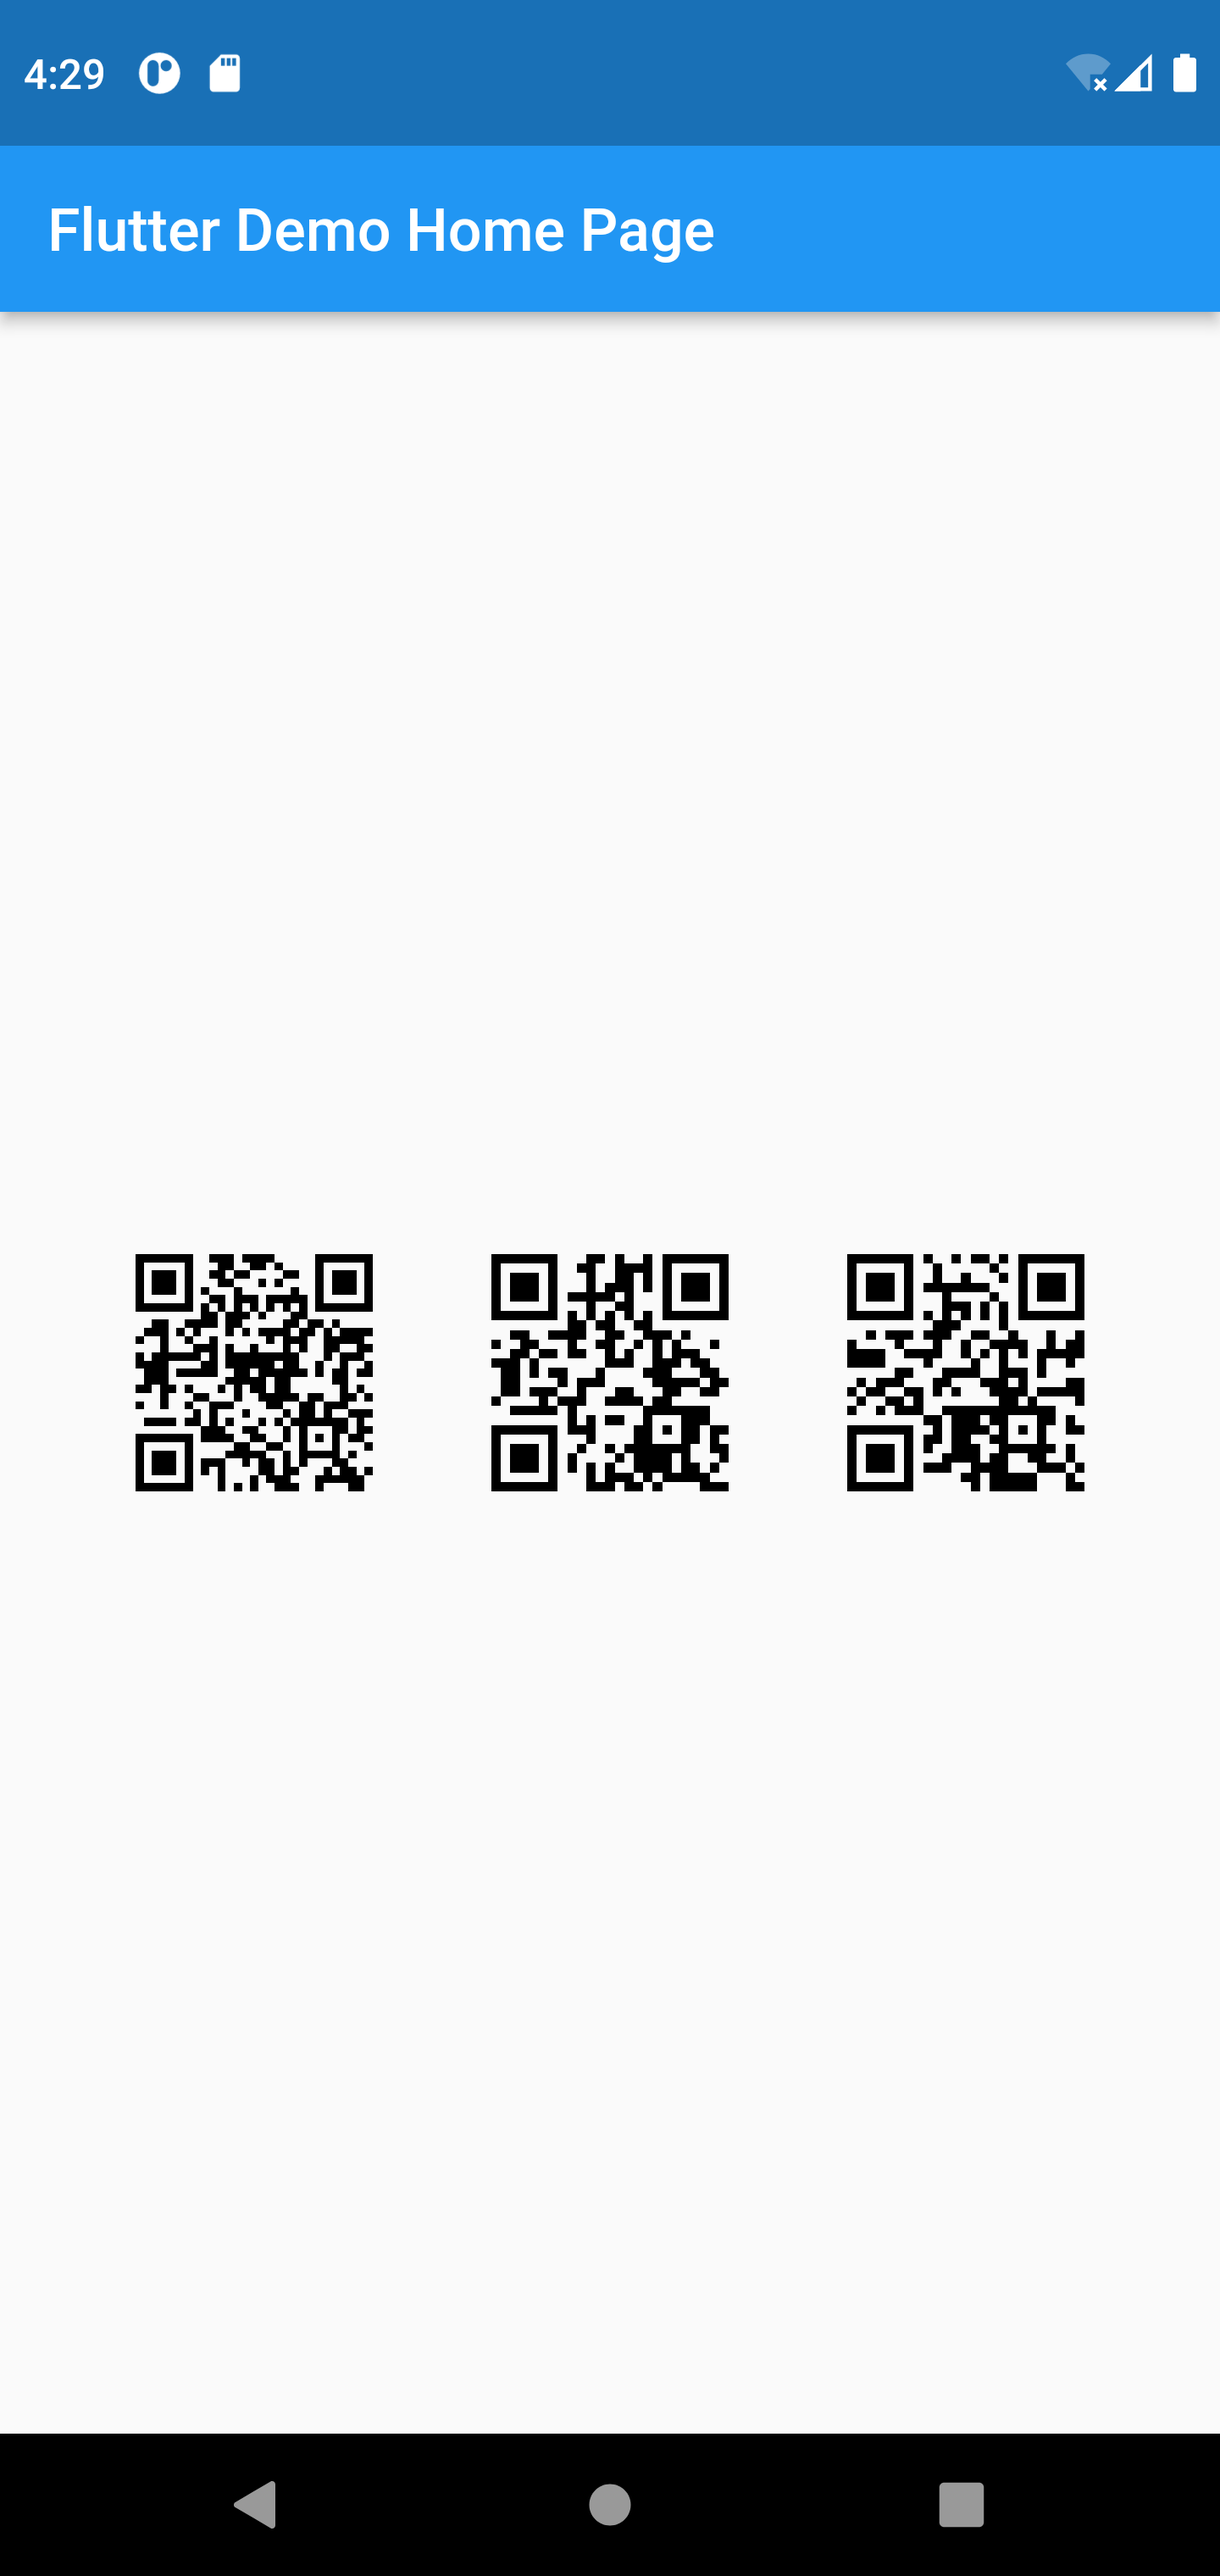
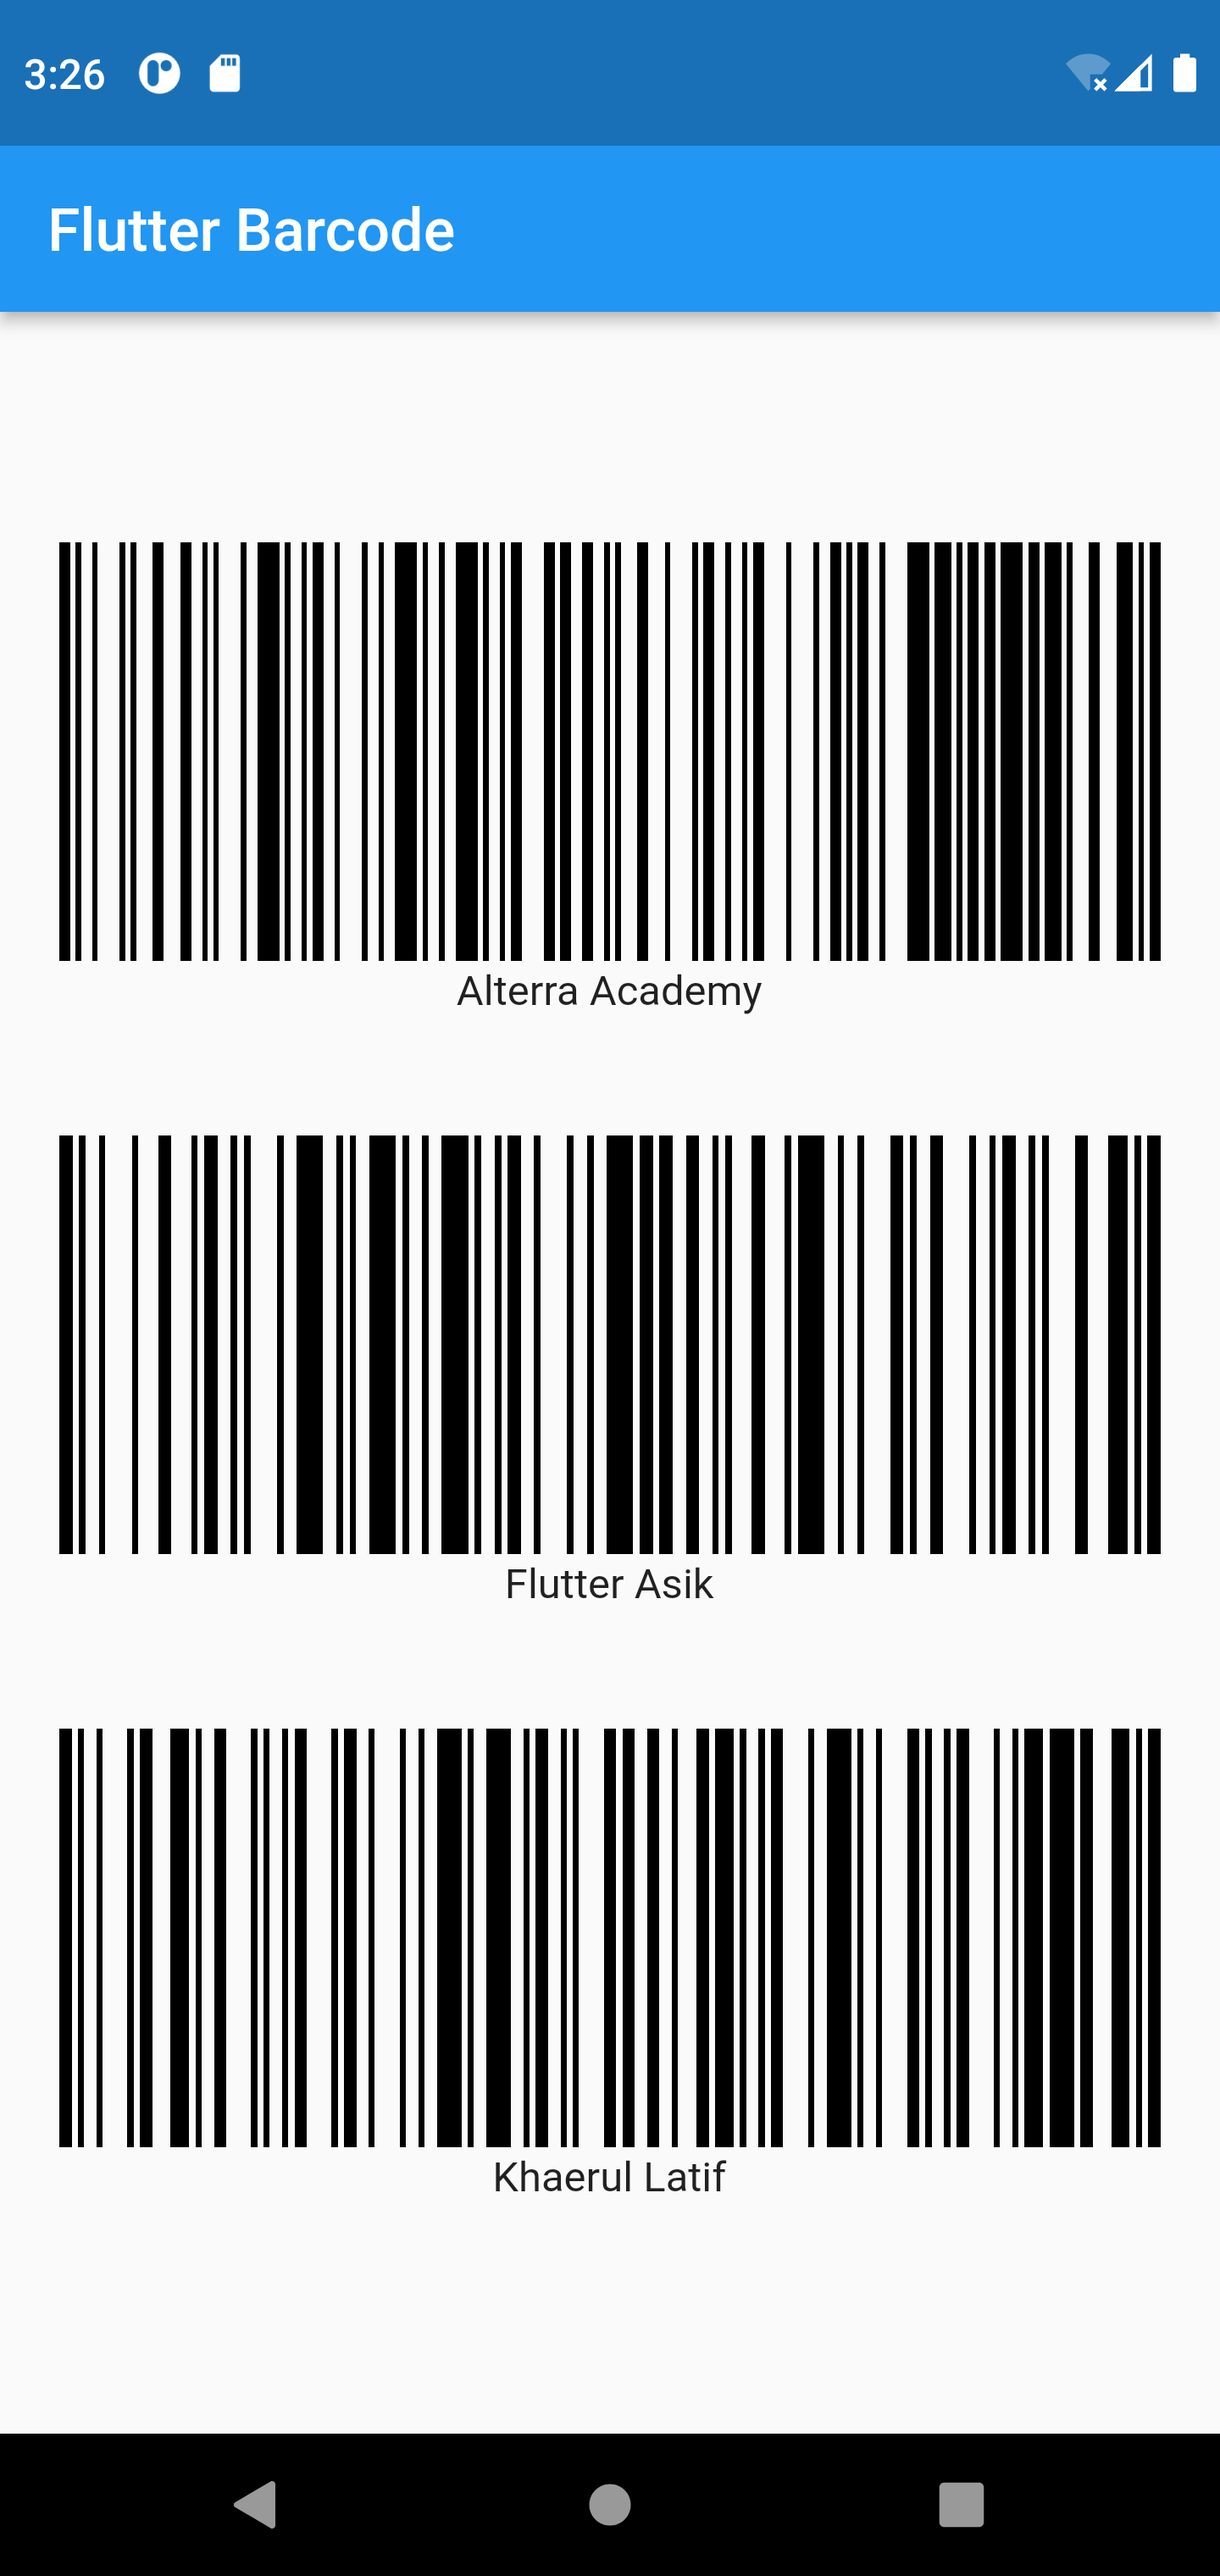
input assignment section 14

diff --git a/14_Flutter Command Line Interface (CLI) and Flutter package management/praktikum/tasks/flutter_cli_14/lib/mainno2.dart b/14_Flutter Command Line Interface (CLI) and Flutter package management/praktikum/tasks/flutter_cli_14/lib/mainno2.dart
@@ -15,7 +15,7 @@ class MyApp extends StatelessWidget {
       theme: ThemeData(
         primarySwatch: Colors.blue,
       ),
-      home: const MyHomePage(title: 'Flutter Demo Home Page'),
+      home: const MyHomePage(title: 'Flutter Barcode'),
     );
   }
 }
@@ -36,46 +36,34 @@ class _MyHomePageState extends State<MyHomePage> {
         title: Text(widget.title),
       ),
       body: Center(
-        child: Row(
-          mainAxisAlignment: MainAxisAlignment.center,
-          children: <Widget>[
-            SizedBox(
-              width: 120.0,
-              height: 80.0,
-              child: BarcodeWidget(
-                barcode: Barcode.qrCode(
-                  errorCorrectLevel: BarcodeQRCorrectionLevel.high,
-                ),
+        child: Container(
+          width: MediaQuery.of(context).size.width,
+          child: Column(
+            mainAxisAlignment: MainAxisAlignment.center,
+            children: <Widget>[
+              BarcodeWidget(
+                barcode: Barcode.code128(),
                 data: 'Alterra Academy',
-                width: 80,
-                height: 80,
+                width: 600,
+                height: 200,
+                padding: EdgeInsets.all(20),
               ),
-            ),
-            SizedBox(
-              width: 120.0,
-              height: 80.0,
-              child: BarcodeWidget(
-                barcode: Barcode.qrCode(
-                  errorCorrectLevel: BarcodeQRCorrectionLevel.high,
-                ),
+              BarcodeWidget(
+                barcode: Barcode.code128(),
                 data: 'Flutter Asik',
-                width: 80,
-                height: 80,
+                width: 600,
+                height: 200,
+                padding: EdgeInsets.all(20),
               ),
-            ),
-            SizedBox(
-              width: 120.0,
-              height: 80.0,
-              child: BarcodeWidget(
-                barcode: Barcode.qrCode(
-                  errorCorrectLevel: BarcodeQRCorrectionLevel.high,
-                ),
+              BarcodeWidget(
+                barcode: Barcode.code128(),
                 data: 'Khaerul Latif',
-                width: 80,
-                height: 80,
+                width: 600,
+                height: 200,
+                padding: EdgeInsets.all(20),
               ),
-            ),
-          ],
+            ],
+          ),
         ),
       ),
     );

diff --git a/14_Flutter Command Line Interface (CLI) and Flutter package management/praktikum/readme.md b/14_Flutter Command Line Interface (CLI) and Flutter package management/praktikum/readme.md
@@ -50,42 +50,32 @@ B. Membuat tampilan barcode
 - Flutter Asik
 - Khaerul Latif
 ```dart
-SizedBox(
-    width: 120.0,
-    height: 80.0,
-    child: BarcodeWidget(
-        barcode: Barcode.qrCode(
-          errorCorrectLevel: BarcodeQRCorrectionLevel.high,
-    ),
-    data: 'Alterra Academy',
-    width: 80,
-    height: 80,
-    ),
-),
-SizedBox(
-    width: 120.0,
-    height: 80.0,
-    child: BarcodeWidget(
-        barcode: Barcode.qrCode(
-          errorCorrectLevel: BarcodeQRCorrectionLevel.high,
-    ),
-    data: 'Flutter Asik',
-    width: 80,
-    height: 80,
-    ),
-),
-SizedBox(
-    width: 120.0,
-    height: 80.0,
-    child: BarcodeWidget(
-        barcode: Barcode.qrCode(
-          errorCorrectLevel: BarcodeQRCorrectionLevel.high,
-    ),
-    data: 'Khaerul Latif',
-    width: 80,
-    height: 80,
-    ),
-),
+Column(
+            mainAxisAlignment: MainAxisAlignment.center,
+            children: <Widget>[
+              BarcodeWidget(
+                barcode: Barcode.code128(),
+                data: 'Alterra Academy',
+                width: 600,
+                height: 200,
+                padding: EdgeInsets.all(20),
+              ),
+              BarcodeWidget(
+                barcode: Barcode.code128(),
+                data: 'Flutter Asik',
+                width: 600,
+                height: 200,
+                padding: EdgeInsets.all(20),
+              ),
+              BarcodeWidget(
+                barcode: Barcode.code128(),
+                data: 'Khaerul Latif',
+                width: 600,
+                height: 200,
+                padding: EdgeInsets.all(20),
+              ),
+            ],
+          ),
 ```
 Hasil dari Task 01 dan Task 02 : 
 ## Output Task01

diff --git a/14_Flutter Command Line Interface (CLI) and Flutter package management/readme.md b/14_Flutter Command Line Interface (CLI) and Flutter package management/readme.md
@@ -50,42 +50,32 @@ B. Membuat tampilan barcode
 - Flutter Asik
 - Khaerul Latif
 ```dart
-SizedBox(
-    width: 120.0,
-    height: 80.0,
-    child: BarcodeWidget(
-        barcode: Barcode.qrCode(
-          errorCorrectLevel: BarcodeQRCorrectionLevel.high,
-    ),
-    data: 'Alterra Academy',
-    width: 80,
-    height: 80,
-    ),
-),
-SizedBox(
-    width: 120.0,
-    height: 80.0,
-    child: BarcodeWidget(
-        barcode: Barcode.qrCode(
-          errorCorrectLevel: BarcodeQRCorrectionLevel.high,
-    ),
-    data: 'Flutter Asik',
-    width: 80,
-    height: 80,
-    ),
-),
-SizedBox(
-    width: 120.0,
-    height: 80.0,
-    child: BarcodeWidget(
-        barcode: Barcode.qrCode(
-          errorCorrectLevel: BarcodeQRCorrectionLevel.high,
-    ),
-    data: 'Khaerul Latif',
-    width: 80,
-    height: 80,
-    ),
-),
+Column(
+            mainAxisAlignment: MainAxisAlignment.center,
+            children: <Widget>[
+              BarcodeWidget(
+                barcode: Barcode.code128(),
+                data: 'Alterra Academy',
+                width: 600,
+                height: 200,
+                padding: EdgeInsets.all(20),
+              ),
+              BarcodeWidget(
+                barcode: Barcode.code128(),
+                data: 'Flutter Asik',
+                width: 600,
+                height: 200,
+                padding: EdgeInsets.all(20),
+              ),
+              BarcodeWidget(
+                barcode: Barcode.code128(),
+                data: 'Khaerul Latif',
+                width: 600,
+                height: 200,
+                padding: EdgeInsets.all(20),
+              ),
+            ],
+          ),
 ```
 Hasil dari Task 01 dan Task 02 : 
 ## Output Task01

diff --git a/14_Flutter Command Line Interface (CLI) and Flutter package management/summary.md b/14_Flutter Command Line Interface (CLI) and Flutter package management/summary.md
@@ -50,42 +50,32 @@ B. Membuat tampilan barcode
 - Flutter Asik
 - Khaerul Latif
 ```dart
-SizedBox(
-    width: 120.0,
-    height: 80.0,
-    child: BarcodeWidget(
-        barcode: Barcode.qrCode(
-          errorCorrectLevel: BarcodeQRCorrectionLevel.high,
-    ),
-    data: 'Alterra Academy',
-    width: 80,
-    height: 80,
-    ),
-),
-SizedBox(
-    width: 120.0,
-    height: 80.0,
-    child: BarcodeWidget(
-        barcode: Barcode.qrCode(
-          errorCorrectLevel: BarcodeQRCorrectionLevel.high,
-    ),
-    data: 'Flutter Asik',
-    width: 80,
-    height: 80,
-    ),
-),
-SizedBox(
-    width: 120.0,
-    height: 80.0,
-    child: BarcodeWidget(
-        barcode: Barcode.qrCode(
-          errorCorrectLevel: BarcodeQRCorrectionLevel.high,
-    ),
-    data: 'Khaerul Latif',
-    width: 80,
-    height: 80,
-    ),
-),
+Column(
+            mainAxisAlignment: MainAxisAlignment.center,
+            children: <Widget>[
+              BarcodeWidget(
+                barcode: Barcode.code128(),
+                data: 'Alterra Academy',
+                width: 600,
+                height: 200,
+                padding: EdgeInsets.all(20),
+              ),
+              BarcodeWidget(
+                barcode: Barcode.code128(),
+                data: 'Flutter Asik',
+                width: 600,
+                height: 200,
+                padding: EdgeInsets.all(20),
+              ),
+              BarcodeWidget(
+                barcode: Barcode.code128(),
+                data: 'Khaerul Latif',
+                width: 600,
+                height: 200,
+                padding: EdgeInsets.all(20),
+              ),
+            ],
+          ),
 ```
 Hasil dari Task 01 dan Task 02 : 
 ## Output Task01
